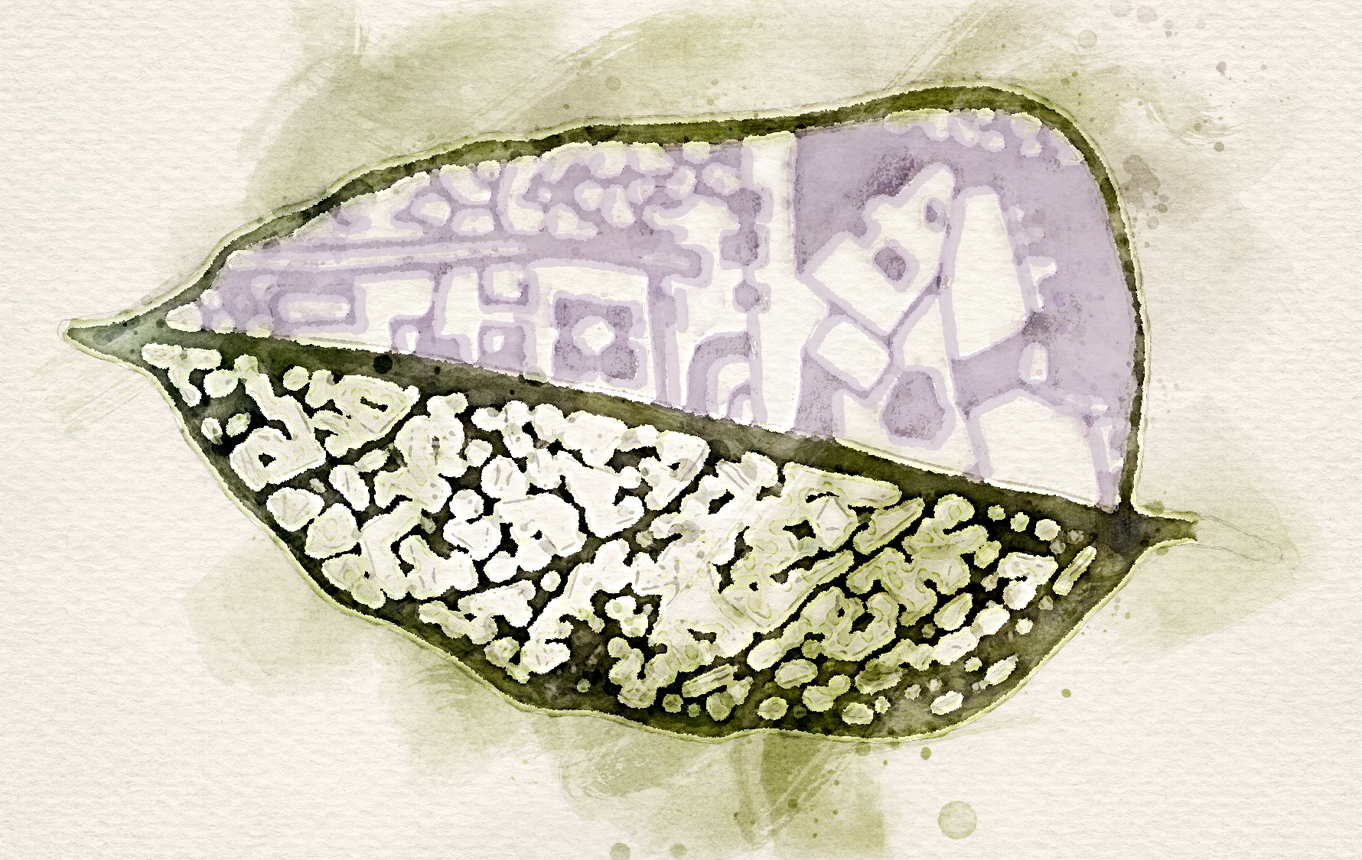
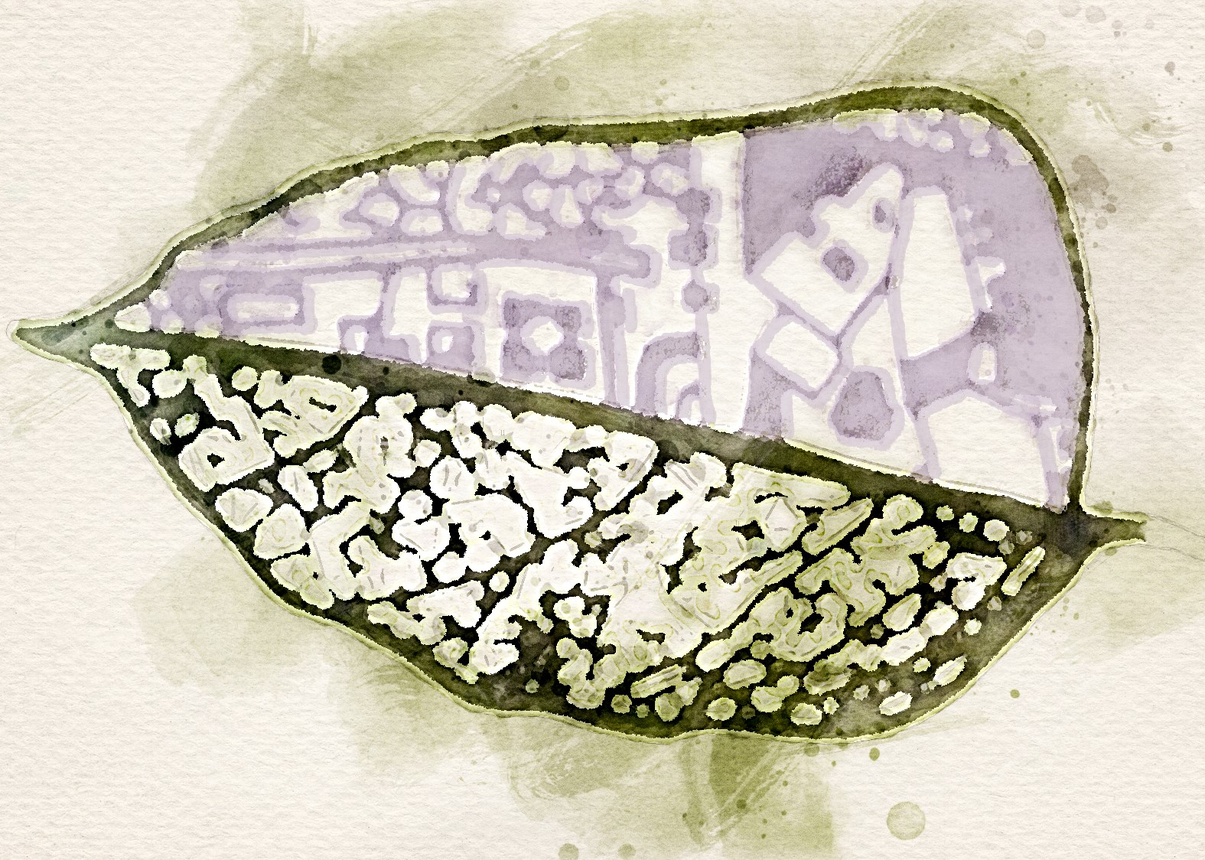
Images (outside headshot) resized to 7:5

diff --git a/index.html b/index.html
@@ -101,9 +101,9 @@
                         </div>
                 </div>
         </div>
-        <!-- *************** LANGUAGE OVERVIEW ******************* -->
+        <!-- *************** ART OVERVIEW ******************* -->
 
-        <div id="language-revitalization">
+        <div id="digital-art">
           <div class="grid-container">
             <div class="cell-medium-8">
 
@@ -119,32 +119,32 @@
                   <ul class="orbit-container">
                     <li class="is-active orbit-slide">
                       <figure class="orbit-figure">
-                        <img class="orbit-image" src="img/leaf.jpg" alt="Space">
-                        <figcaption class="orbit-caption">Space, the final frontier.</figcaption>
+                        <img class="orbit-image img-responsive" src="img/leaf.jpg" alt="A leaf">
                       </figure>
                     </li>
                     <li class="orbit-slide">
                       <figure class="orbit-figure">
-                        <img class="orbit-image" src="img/dentalium.png" alt="Space">
-                        <figcaption class="orbit-caption">Lets Rocket!</figcaption>
+                        <img class="orbit-image img-responsive" src="img/dentalium.png" alt="dentalium">
                       </figure>
                     </li>
                     <li class="orbit-slide">
                       <figure class="orbit-figure">
-                        <img class="orbit-image" src="img/languageFruit.jpg" alt="Space">
-                        <figcaption class="orbit-caption">Lets Rocket!</figcaption>
+                        <img class="orbit-image img-responsive" src="img/languageFruit.jpg" alt="A field with the Coquille language identifying objects">
                       </figure>
                     </li>
                     <li class="orbit-slide">
                       <figure class="orbit-figure">
-                        <img class="orbit-image" src="img/languageForest.jpg" alt="Space">
-                        <figcaption class="orbit-caption">Encapsulating</figcaption>
+                        <img class="orbit-image img-responsive" src="img/languageForest.jpg" alt="A forest with the Coquille language identifying objects">
                       </figure>
                     </li>
                     <li class="orbit-slide">
                       <figure class="orbit-figure">
-                        <img class="orbit-image" src="img/river.jpg" alt="Space">
-                        <figcaption class="orbit-caption">Outta This World</figcaption>
+                        <img class="orbit-image img-responsive" src="img/river.jpg" alt="A stylizied river image">
+                      </figure>
+                    </li>
+                    <li class="orbit-slide">
+                      <figure class="orbit-figure">
+                        <img class="orbit-image img-responsive" src="img/flower.jpg" alt="A flower">
                       </figure>
                     </li>
                   </ul>
@@ -157,7 +157,8 @@
                   <button data-slide="1"><span class="show-for-sr">Second slide details.</span></button>
                   <button data-slide="2"><span class="show-for-sr">Third slide details.</span></button>
                   <button data-slide="3"><span class="show-for-sr">Fourth slide details.</span></button>
-                  <button data-slide="4"><span class="show-for-sr">Fourth slide details.</span></button>
+                  <button data-slide="4"><span class="show-for-sr">Fifth slide details.</span></button>
+                  <button data-slide="4"><span class="show-for-sr">Sixth slide details.</span></button>
                 </nav>
               </div>
 

diff --git a/scss/base.scss b/scss/base.scss
@@ -11,9 +11,14 @@
 
 .top-bar a {
         color: #555555;
-        &:hover { 
+        &:hover {
                 color: #000000;
                 text-decoration: underline;
         }
 }
 
+.img-responsive {
+    display: block;
+    max-width: 100%;
+    height: auto;
+}

diff --git a/css/base.css b/css/base.css
@@ -7150,3 +7150,9 @@ html.is-reveal-open body {
   color: #000000;
   text-decoration: underline;
 }
+
+.img-responsive {
+  display: block;
+  max-width: 100%;
+  height: auto;
+}
